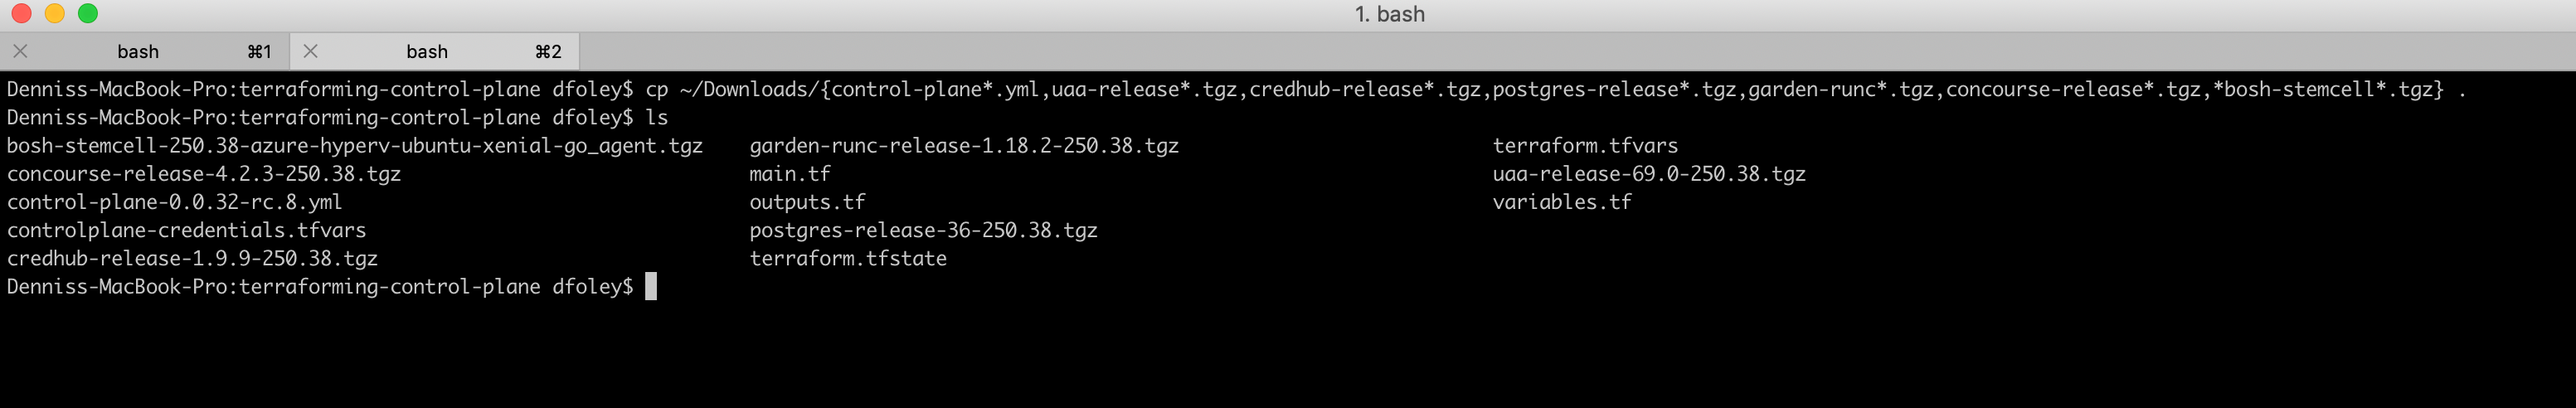
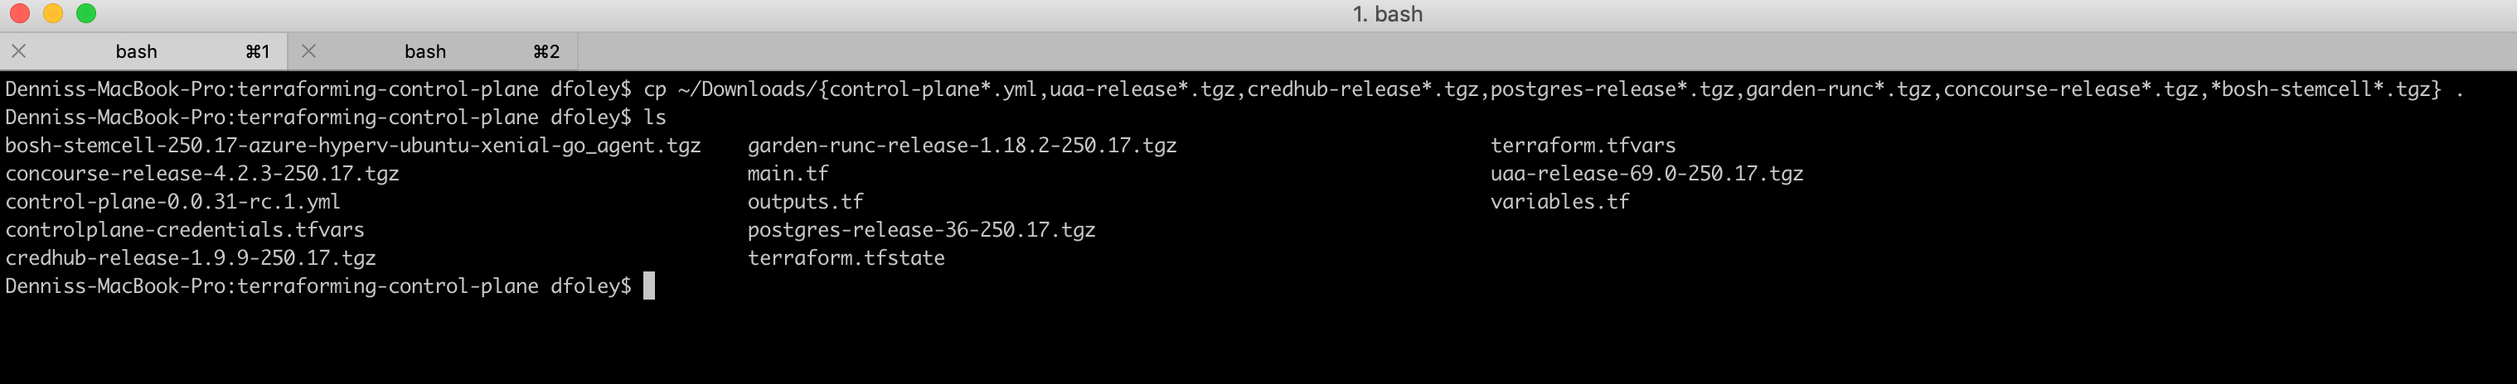
Fixed BOSH directory network assignment

diff --git a/README.md b/README.md
@@ -156,7 +156,9 @@ echo https://"$(terraform output ops_manager_dns)"
 
 - Retrieve the assets from [Pivotal Network](https://network.pivotal.io/). Download the manifest and all of the releases from [Pivotal Control Plane Components](https://network.pivotal.io/products/p-control-plane-components/#/releases/359492)
 
-    ![](images/image12.png)
+**Note:** Currently you need to select **Release 0.0.31**
+
+![](images/image12.png)
 
 - Download the stemcell for the releases from [Stemcells for PCF](https://network.pivotal.io/products/stemcells-ubuntu-xenial#/releases/354816)
 
@@ -166,7 +168,7 @@ echo https://"$(terraform output ops_manager_dns)"
 - Move downloaded files to current directory (it will make it easier to upload the assets later)
 
 ```bash
-cp ~/Downloads/{control-plane*.yml,uaa-release*.tgz,credhub-release*.tgz,postgres-release*.tgz,garden-runc*.tgz,concourse-release*.tgz,*bosh-stemcell*.tgz,bosh-dns*.tgz} .
+cp ~/Downloads/{control-plane*.yml,uaa-release*.tgz,credhub-release*.tgz,postgres-release*.tgz,garden-runc*.tgz,concourse-release*.tgz,*bosh-stemcell*.tgz} .
 ```
 
 ![](images/image14.png)
@@ -174,7 +176,7 @@ cp ~/Downloads/{control-plane*.yml,uaa-release*.tgz,credhub-release*.tgz,postgre
 - You need to upload each asset to your Ops Manager VM in order to upload them to BOSH. Save the Ops Manager SSH KEY to an environment variable (the ***OPS_MANAGER_KEY_PATH*** variable can be arbitrary)
 
 ```bash
-export OPS_MANAGER_KEY_PATH=/your/ssh/key/path
+export OPS_MANAGER_KEY_PATH=./ops_manager_ssh_private_key
 
 terraform output ops_manager_ssh_private_key > $OPS_MANAGER_KEY_PATH
 chmod 0600 $OPS_MANAGER_KEY_PATH
@@ -207,7 +209,6 @@ bosh upload-release credhub-release-*.tgz
 bosh upload-release garden-runc-release-*.tgz
 bosh upload-release postgres-release-*.tgz
 bosh upload-release uaa-release-*.tgz
-bosh upload-release bosh-dns-*.tgz
 ```
 
 ![](images/image17.png)
@@ -240,7 +241,6 @@ om --skip-ssl-validation create-vm-extension \
 om --skip-ssl-validation apply-changes
 ```
 
-
 - Retrieve the Control Plane domain and availability zones from Terraform.
 
 ```bash
@@ -268,6 +268,10 @@ uaa_ca_cert: |
 bosh deploy -d control-plane control-plane-*.yml \
   --vars-file=./bosh-vars.yml
 ```
+
+![](images/image18.png)
+
+
 
 
 
